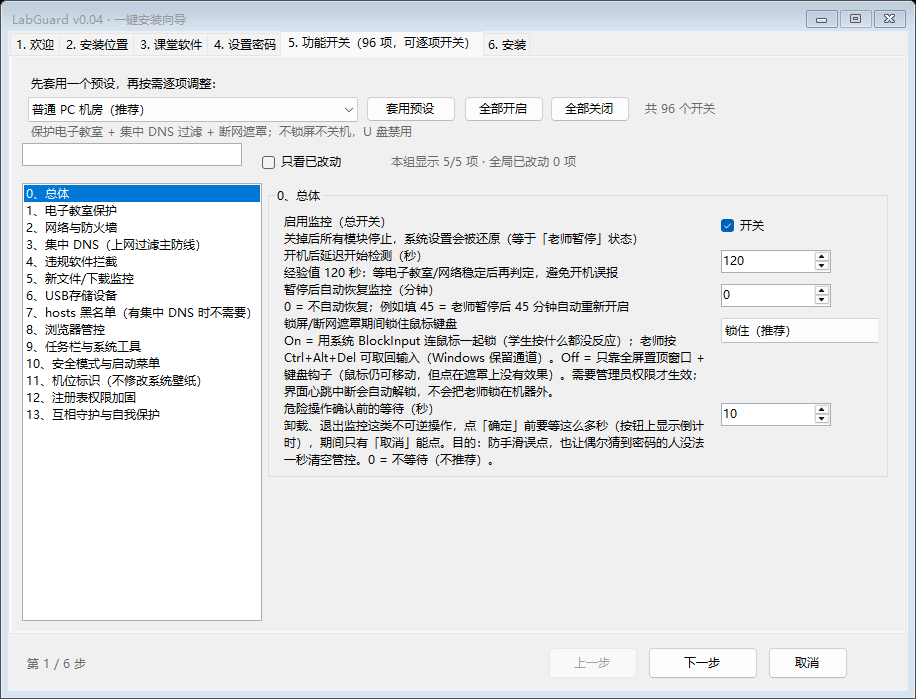
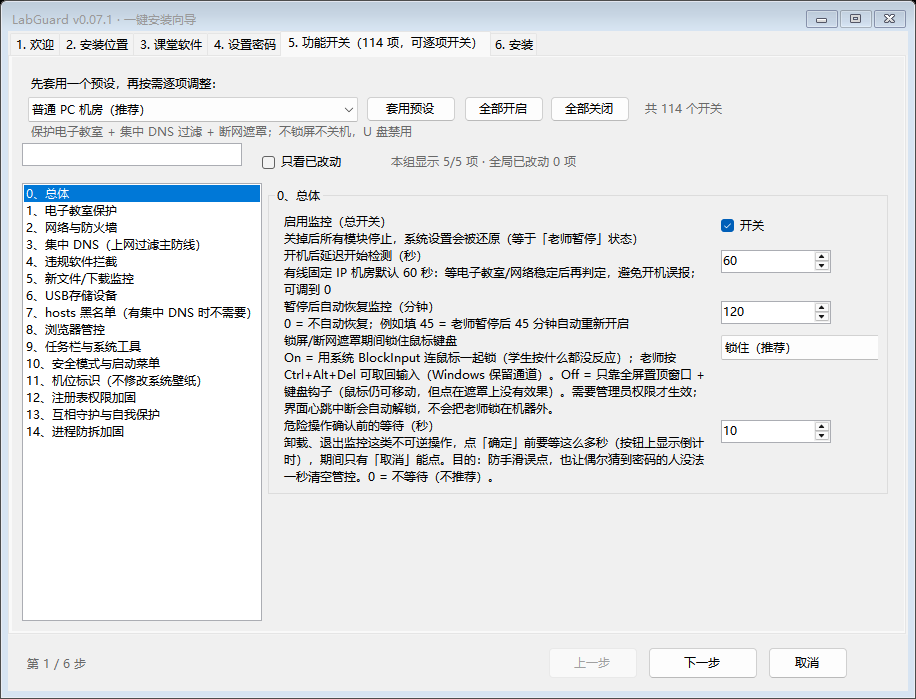
fix(standalone): v0.07.1 cold boot and download defaults

diff --git a/src/LabGuard.SelfTest/Program.cs b/src/LabGuard.SelfTest/Program.cs
@@ -45,6 +45,7 @@ namespace LabGuard.SelfTest
             TestDnsRule();
             TestSettingsCoverage();
             TestNicRoles();
+            TestStandaloneDefaults();
             TestEngineDryRun();
 
             Console.WriteLine();
@@ -732,6 +733,70 @@ namespace LabGuard.SelfTest
                 System.Linq.Enumerable.Select(LabGuard.Core.Interop.NicRoles.Usable(),
                     n => n.Name + (cfg.Network.ExcludedInterfaces.Any(p =>
                         (n.Name + " " + n.Description).IndexOf(p, StringComparison.OrdinalIgnoreCase) >= 0) ? "(忽略)" : ""))));
+        }
+
+        /// <summary>
+        /// v0.07.1 单机版默认值回归：下载默认放行、游戏默认禁用、预热 60 秒、
+        /// 以及 Notify 动作不得删除文件。
+        /// </summary>
+        private static void TestStandaloneDefaults()
+        {
+            Console.WriteLine("[8.1] 单机版 v0.07.1 默认值");
+            var cfg = new GuardConfig();
+            Check("有线固定 IP 默认预热 60 秒", cfg.StartDelaySeconds == 60, cfg.StartDelaySeconds + " 秒");
+            Check("浏览器下载默认放行", !cfg.Browser.BlockDownloads);
+            Check("浏览器另存为默认放行", !cfg.Browser.BlockSaveAs);
+            Check("IE 下载默认放行", !cfg.Browser.BlockIeDownload);
+            Check("Chrome 小恐龙仍默认禁用", cfg.Browser.BlockChromeDino);
+            Check("Edge 冲浪仍默认禁用", cfg.Browser.BlockEdgeSurf);
+            Check("新文件/下载监控默认关闭", !cfg.FileCreation.Enabled);
+            Check("Notify 动作不删除文件", !FileCreationGuard.ShouldDelete("Notify"));
+            Check("Delete 动作仍会删除文件", FileCreationGuard.ShouldDelete("Delete"));
+
+            // 干跑浏览器策略：默认只能看到游戏限制，不应写任何 DownloadRestrictions。
+            bool oldDryRun = Log.DryRun;
+            try
+            {
+                Log.DryRun = true;
+                int auditStart = SystemActions.AuditTrail.Count;
+                var browser = new BrowserPolicyGuard();
+                browser.Start(new GuardContext(cfg, AppDomain.CurrentDomain.BaseDirectory, null));
+                browser.Stop();
+                var browserAudit = SystemActions.AuditTrail.Skip(auditStart).ToList();
+                Check("默认浏览器策略不写下载限制",
+                    !browserAudit.Any(x => x.IndexOf("DownloadRestrictions", StringComparison.OrdinalIgnoreCase) >= 0));
+                Check("默认浏览器策略仍写 Chrome 小恐龙限制",
+                    browserAudit.Any(x => x.IndexOf("AllowDinosaurEasterEgg = 0", StringComparison.OrdinalIgnoreCase) >= 0));
+                Check("默认浏览器策略仍写 Edge 冲浪限制",
+                    browserAudit.Any(x => x.IndexOf("AllowSurfGame = 0", StringComparison.OrdinalIgnoreCase) >= 0));
+            }
+            finally
+            {
+                Log.DryRun = oldDryRun;
+            }
+
+            // 冷启动兜底：本机若恰好有 Down 网卡，把其它网卡全部排除，
+            // 验证仍能从离线网卡中选出判据，而不是返回空集合。
+            var all = NicRoles.Usable().ToList();
+            var down = all.FirstOrDefault(n => n.OperationalStatus != System.Net.NetworkInformation.OperationalStatus.Up &&
+                n.NetworkInterfaceType != System.Net.NetworkInformation.NetworkInterfaceType.Loopback &&
+                n.NetworkInterfaceType != System.Net.NetworkInformation.NetworkInterfaceType.Tunnel);
+            if (down == null)
+            {
+                Console.WriteLine("  [SKIP] 本机没有可用的 Down 网卡，冷启动兜底由真机部署验证");
+            }
+            else
+            {
+                var coldCfg = new GuardConfig();
+                coldCfg.Network.WatchWiredOnly = false;
+                coldCfg.Network.ExcludedInterfaces.Clear();
+                foreach (var nic in all.Where(n => n.Name != down.Name)) coldCfg.Network.ExcludedInterfaces.Add(nic.Name);
+                string reason;
+                var selected = NicRoles.SelectWatched(coldCfg, out reason);
+                Check("冷启动无在线网卡时仍选中 Down 网卡作为判据",
+                    selected.Any(n => string.Equals(n.Name, down.Name, StringComparison.OrdinalIgnoreCase)),
+                    reason);
+            }
         }
 
         private static void TestEngineDryRun()

diff --git a/src/LabGuard.Core/Guards/BrowserPolicyGuard.cs b/src/LabGuard.Core/Guards/BrowserPolicyGuard.cs
@@ -26,6 +26,8 @@ namespace LabGuard.Core.Guards
         private const string WindowsDnsClient = @"SOFTWARE\Policies\Microsoft\Windows NT\DNSClient";
         private const string IeZones = @"SOFTWARE\Microsoft\Windows\CurrentVersion\Internet Settings\Zones\3";
         private const string IeRestrict = @"SOFTWARE\Policies\Microsoft\Internet Explorer\Restrictions";
+        private bool _appliedIeDownload;
+        private bool _appliedIeSaveAs;
 
         protected override void OnStart()
         {
@@ -41,6 +43,11 @@ namespace LabGuard.Core.Guards
                 ok &= Convert.ToInt32(SystemActions.GetRegistryValue(RegistryHive.LocalMachine, Chrome, "AllowDinosaurEasterEgg") ?? 1) == 0;
             if (b.BlockDownloads)
                 ok &= Convert.ToInt32(SystemActions.GetRegistryValue(RegistryHive.LocalMachine, Chrome, "DownloadRestrictions") ?? 0) == 3;
+            if (b.BlockIeDownload)
+            {
+                ok &= Convert.ToInt32(SystemActions.GetRegistryValue(RegistryHive.LocalMachine, IeZones, "1803") ?? 0) == 3;
+                ok &= Convert.ToInt32(SystemActions.GetRegistryValue(RegistryHive.LocalMachine, IeZones, "2200") ?? 1) == 0;
+            }
             if (!ok)
             {
                 Context.Report(Name, "你违规修改了注册表的禁止下载/禁止游戏项！现在助手强制恢复！", ViolationAction.Notify);
@@ -58,13 +65,20 @@ namespace LabGuard.Core.Guards
                 Set(Edge, "DownloadRestrictions", 3);
                 Set(Firefox, "DisableDownloads", 1);
                 Set(Firefox, "BlockAboutDownloads", 1);
+            }
+            // IE 的下载限制单独可控：BlockDownloads 打开时一并覆盖 IE；
+            // BlockIeDownload 单独打开时只封 IE，不影响 Chrome/Edge。
+            if (b.BlockDownloads || b.BlockIeDownload)
+            {
                 Set(IeZones, "1803", 3);
                 Set(IeZones, "2200", 0);
+                _appliedIeDownload = true;
             }
             if (b.BlockSaveAs)
             {
                 Set(IeRestrict, "NoBrowserSaveAs", 1);
                 Set(Edge, "SaveAs", 0);
+                _appliedIeSaveAs = true;
             }
             if (b.BlockDevTools) Set(Edge, "DeveloperToolsAvailability", 2);
             if (b.BlockChromeDino) Set(Chrome, "AllowDinosaurEasterEgg", 0);
@@ -156,12 +170,19 @@ namespace LabGuard.Core.Guards
         protected override void OnStop()
         {
             if (Context == null) return;
-            foreach (string k in new[] { Chrome, Edge, Firefox, IeRestrict })
+            foreach (string k in new[] { Chrome, Edge, Firefox })
                 SystemActions.DeleteRegistryKey(RegistryHive.LocalMachine, k);
+            if (_appliedIeSaveAs)
+                SystemActions.DeleteRegistryKey(RegistryHive.LocalMachine, IeRestrict);
             SystemActions.DeleteRegistryKey(RegistryHive.LocalMachine, FirefoxDoh);
             SystemActions.DeleteRegistryValue(RegistryHive.LocalMachine, WindowsDnsClient, "DoHPolicy");
-            foreach (string v in new[] { "1803", "2200" })
-                SystemActions.DeleteRegistryValue(RegistryHive.LocalMachine, IeZones, v);
+            if (_appliedIeDownload)
+            {
+                foreach (string v in new[] { "1803", "2200" })
+                    SystemActions.DeleteRegistryValue(RegistryHive.LocalMachine, IeZones, v);
+            }
+            _appliedIeDownload = false;
+            _appliedIeSaveAs = false;
             Log.Info("已移除浏览器组策略");
         }
     }

diff --git a/src/LabGuard.Core/Config/GuardConfig.cs b/src/LabGuard.Core/Config/GuardConfig.cs
@@ -26,8 +26,8 @@ namespace LabGuard.Core.Config
         /// 取 2 小时是折中——够长（不会在一节课中途自己恢复），又能在跨节课/午休后自愈。
         /// </summary>
         public int ResumeAfterMinutes { get; set; } = 120;
-        /// <summary>程序启动后多少秒才开始检测（避免开机误判，为 120 秒）。</summary>
-        public int StartDelaySeconds { get; set; } = 120;
+        /// <summary>程序启动后多少秒才开始检测（有线固定 IP 机房默认 60 秒；可在设置里改）。</summary>
+        public int StartDelaySeconds { get; set; } = 60;
 
         public ClassroomSettings Classroom { get; set; } = new ClassroomSettings();
         public NetworkSettings Network { get; set; } = new NetworkSettings();
@@ -220,7 +220,8 @@ namespace LabGuard.Core.Config
 
     public class FileCreationSettings
     {
-        public bool Enabled { get; set; } = true;
+        /// <summary>新文件/下载监控默认关闭：浏览器下载默认全部放行，需要时再由老师手动打开。</summary>
+        public bool Enabled { get; set; } = false;
         /// <summary>AllowAll / CppOnly / DenyAll（12 组开关里的三档）。</summary>
         public string Mode { get; set; } = "CppOnly";
         public List<string> WatchPaths { get; set; } = new List<string>
@@ -269,12 +270,12 @@ namespace LabGuard.Core.Config
     public class BrowserSettings
     {
         public bool Enabled { get; set; } = true;
-        public bool BlockDownloads { get; set; } = true;
-        public bool BlockSaveAs { get; set; } = true;
+        public bool BlockDownloads { get; set; } = false;
+        public bool BlockSaveAs { get; set; } = false;
         public bool BlockDevTools { get; set; } = true;
         public bool BlockChromeDino { get; set; } = true;
         public bool BlockEdgeSurf { get; set; } = true;
-        public bool BlockIeDownload { get; set; } = true;
+        public bool BlockIeDownload { get; set; } = false;
         /// <summary>首页/导航站（留空 = 不改学生浏览器主页）。</summary>
         public string Homepage { get; set; } = "";
         /// <summary>用 LabGuard.Launcher 替换浏览器快捷方式（默认关；开启后点浏览器会先经过本程序）。</summary>

diff --git a/src/LabGuard.Core/Settings/SettingsCatalog.cs b/src/LabGuard.Core/Settings/SettingsCatalog.cs
@@ -48,7 +48,7 @@ namespace LabGuard.Core.Settings
             list.Add(Bool("0、总体", "Enabled", "启用监控（总开关）",
                 "关掉后所有模块停止，系统设置会被还原（等于「老师暂停」状态）", c => c.Enabled, (c, v) => c.Enabled = (bool)v));
             list.Add(Number("0、总体", "StartDelaySeconds", "开机后延迟开始检测（秒）",
-                "经验值 120 秒：等电子教室/网络稳定后再判定，避免开机误报", 0, 3600,
+                "有线固定 IP 机房默认 60 秒：等电子教室/网络稳定后再判定，避免开机误报；可调到 0", 0, 3600,
                 c => c.StartDelaySeconds, (c, v) => c.StartDelaySeconds = (int)v));
             list.Add(Number("0、总体", "ResumeAfterMinutes", "暂停后自动恢复监控（分钟）",
                 "0 = 不自动恢复；例如填 45 = 老师暂停后 45 分钟自动重新开启", 0, 1440,
@@ -282,9 +282,10 @@ namespace LabGuard.Core.Settings
             list.Add(Bool("8、浏览器管控", "Browser.Enabled", "启用浏览器策略（本组总开关）", null,
                 c => c.Browser.Enabled, (c, v) => c.Browser.Enabled = (bool)v));
             list.Add(Bool("8、浏览器管控", "Browser.BlockDownloads", "禁止浏览器下载文件",
-                "Chrome/Edge/Firefox/IE；学生仍可在浏览器复制图片再粘贴",
+                "默认关闭（允许所有下载，含 Edge 截图）；需要时手动打开",
                 c => c.Browser.BlockDownloads, (c, v) => c.Browser.BlockDownloads = (bool)v));
-            list.Add(Bool("8、浏览器管控", "Browser.BlockSaveAs", "禁止另存为", null,
+            list.Add(Bool("8、浏览器管控", "Browser.BlockSaveAs", "禁止另存为",
+                "默认关闭；避免影响 Edge 截图后保存",
                 c => c.Browser.BlockSaveAs, (c, v) => c.Browser.BlockSaveAs = (bool)v));
             list.Add(Bool("8、浏览器管控", "Browser.BlockDevTools", "禁止开发者工具", null,
                 c => c.Browser.BlockDevTools, (c, v) => c.Browser.BlockDevTools = (bool)v));

diff --git a/src/LabGuard.Core/Guards/FileCreationGuard.cs b/src/LabGuard.Core/Guards/FileCreationGuard.cs
@@ -78,6 +78,12 @@ namespace LabGuard.Core.Guards
         private void OnRenamed(object sender, RenamedEventArgs e) => Handle(e.FullPath);
         private void OnChanged(object sender, FileSystemEventArgs e) => Handle(e.FullPath);
 
+        /// <summary>只有显式 Delete 才删除文件；Notify/Lock 等动作必须保留文件。</summary>
+        public static bool ShouldDelete(string action)
+        {
+            return string.Equals(action, "Delete", StringComparison.OrdinalIgnoreCase);
+        }
+
         private void Handle(string fullPath)
         {
             try
@@ -110,11 +116,13 @@ namespace LabGuard.Core.Guards
                             : "本机禁止下载/安装软件；如确有需要，请老师用密码暂停管控。";
 
                 _strikes++;
-                bool delete = string.Equals(cfg.Action, "Delete", StringComparison.OrdinalIgnoreCase);
-                SystemActions.DeleteFile(fullPath);
-                Context.Report(Name, message + "  刚刚删除文件：" + fullPath,
+                bool delete = ShouldDelete(cfg.Action);
+                if (delete) SystemActions.DeleteFile(fullPath);
+                Context.Report(Name, message + (delete ? "  刚刚删除文件：" : "  仅提示，文件保留：") + fullPath,
                     _strikes >= 2 ? ViolationAction.Lock : ViolationAction.Notify, ext);
-                SetStatus("已删除违规新文件（累计 " + _strikes + " 次）");
+                SetStatus(delete
+                    ? "已删除违规新文件（累计 " + _strikes + " 次）"
+                    : "已提示违规新文件（已保留，累计 " + _strikes + " 次）");
             }
             catch (Exception ex) { Log.Debug("处理新文件事件失败：" + ex.Message); }
         }

diff --git a/src/LabGuard.Core/Interop/NicRoles.cs b/src/LabGuard.Core/Interop/NicRoles.cs
@@ -1,5 +1,6 @@
 using System;
 using System.Collections.Generic;
+using System.Linq;
 using System.Net.NetworkInformation;
 using System.Net.Sockets;
 using LabGuard.Core.Config;
@@ -168,9 +169,25 @@ namespace LabGuard.Core.Interop
                 string ip;
                 if (HasUsableIpv4(nic, out ip)) result.Add(nic);
             }
+            if (result.Count > 0)
+            {
+                reason = "自动选中 " + result.Count + " 个有 IP 的物理网卡（没有默认网关）" + fallbackNote;
+                return result;
+            }
+
+            // 冷启动/开机前拔线：网卡可能是 Down、没有网关也没有可用 IP。
+            // 此时必须把物理网卡本身留作判据，否则 watchedTotal=0，
+            // NetworkGuard 永远判定不了断网（插回网线也不会恢复监控）。
+            // 有线优先；无线只在没有有线网卡时兜底。
+            foreach (NetworkInterface nic in candidates
+                .OrderByDescending(n => IsWiredType(n.NetworkInterfaceType))
+                .ThenBy(n => n.Name, StringComparer.OrdinalIgnoreCase))
+            {
+                result.Add(nic);
+            }
             reason = result.Count > 0
-                ? "自动选中 " + result.Count + " 个有 IP 的物理网卡（没有默认网关）" + fallbackNote
-                : "没有找到可判定的联网网卡（本机可能确实没网）";
+                ? "冷启动没有在线网卡，已选中 " + result.Count + " 个物理网卡作为离线判据（插回网线后自动恢复）" + fallbackNote
+                : "没有找到可判定的物理网卡（本机可能没有网卡）";
             return result;
         }
 

diff --git a/src/LabGuard.Core/Settings/Presets.cs b/src/LabGuard.Core/Settings/Presets.cs
@@ -91,7 +91,7 @@ namespace LabGuard.Core.Settings
         private static void ApplyCommon(GuardConfig c)
         {
             c.Enabled = true;
-            c.StartDelaySeconds = 120;
+            c.StartDelaySeconds = 60;
             c.Classroom.Enabled = true;
             c.Classroom.ResumeWhenSuspended = true;
             c.Classroom.RelaunchWhenKilled = true;
@@ -123,7 +123,8 @@ namespace LabGuard.Core.Settings
             c.Network.ShutdownOnViolation = false;
             c.ProcessBlock.Enabled = true;
             c.ProcessBlock.Action = "Kill";
-            c.FileCreation.Enabled = true;
+            // 默认允许所有浏览器下载；需要“新文件/下载监控”时由老师手动打开。
+            c.FileCreation.Enabled = false;
             c.FileCreation.Mode = "CppOnly";
             c.FileCreation.Action = "Delete";
             c.Usb.Enabled = true;
@@ -131,6 +132,11 @@ namespace LabGuard.Core.Settings
             c.Hosts.Enabled = false;
             c.Hosts.ProtectFileAcl = true;
             c.Browser.Enabled = true;
+            c.Browser.BlockDownloads = false;
+            c.Browser.BlockSaveAs = false;
+            c.Browser.BlockIeDownload = false;
+            c.Browser.BlockChromeDino = true;
+            c.Browser.BlockEdgeSurf = true;
             c.Shell.Enabled = true;
             c.SafeMode.Enabled = true;
             c.Site.ShowMachineNumber = true;

diff --git a/src/LabGuard.Settings/SettingsForm.cs b/src/LabGuard.Settings/SettingsForm.cs
@@ -14,7 +14,7 @@ namespace LabGuard.Settings
 {
     /// <summary>
     /// 设置程序：主体是 <see cref="SettingsPanel"/>（左侧分组导航 + 搜索 + 只看已改动 + 改动计数，
-    /// 内容由 <see cref="LabGuard.Core.Settings.SettingsCatalog"/> 驱动，共 14 组 / 96 项）。
+    /// 内容由 <see cref="LabGuard.Core.Settings.SettingsCatalog"/> 驱动，共 15 组 / 114 项）。
     /// 底部另有口令、导出/导入/恢复默认/保存。
     /// </summary>
     public class SettingsForm : Form
@@ -75,7 +75,7 @@ namespace LabGuard.Settings
         }
 
         // ------------------------------------------------------------------ 截图（文档/人工核对用）
-        /// <summary>把 14 个分组面板逐个渲染成 PNG（不修改配置）。</summary>
+        /// <summary>把全部分组面板逐个渲染成 PNG（不修改配置）。</summary>
         public List<string> RenderScreenshots(string outDir)
         {
             var saved = new List<string>();

diff --git a/src/LabGuard.Installer/InstallerForm.cs b/src/LabGuard.Installer/InstallerForm.cs
@@ -259,7 +259,8 @@ namespace LabGuard.Installer
 
         private TabPage TabOptions()
         {
-            var page = new TabPage("5. 功能开关（96 项，可逐项开关）") { Padding = new Padding(10) };
+            var page = new TabPage("5. 功能开关（" + SettingsCatalog.All().Count + " 项，可逐项开关）")
+                { Padding = new Padding(10) };
             var top = new Panel { Dock = DockStyle.Top, Height = 76 };
             var lbl = new Label { Text = "先套用一个预设，再按需逐项调整：", Left = 6, Top = 8, Width = 330 };
             _presetBox.Left = 6; _presetBox.Top = 30;

diff --git a/src/LabGuard.Core/AppInfo.cs b/src/LabGuard.Core/AppInfo.cs
@@ -9,8 +9,8 @@ namespace LabGuard.Core
         public const string ProductNameZh = "机房管控工具";
         /// <summary>桌面/开始菜单快捷方式显示名。</summary>
         public const string ShortcutName = "LabGuard（机房管控）";
-        /// <summary>当前版本（与 git tag v0.06 对应）。</summary>
-        public const string Version = "0.07";
+        /// <summary>当前版本（单机版 v0.07.1 修复补丁）。</summary>
+        public const string Version = "0.07.1";
         public const string RepoUrl = "https://github.com/ikeee/labguard";
     }
 }

diff --git a/src/LabGuard.Core/Guards/NetworkGuard.cs b/src/LabGuard.Core/Guards/NetworkGuard.cs
@@ -93,7 +93,7 @@ namespace LabGuard.Core.Guards
 
         protected override void OnTick()
         {
-            // 经验值：开机后要给电子教室/网络足够时间，默认 120 秒内不判违规
+            // 有线固定 IP 机房默认 60 秒，给电子教室/网络留启动时间；可在设置里调整
             if ((DateTime.Now - _startedAt).TotalSeconds < Context.Config.StartDelaySeconds)
             {
                 SetStatus("预热中（" + Context.Config.StartDelaySeconds + "秒后开始检测）");

diff --git a/src/LabGuard.Settings/Program.cs b/src/LabGuard.Settings/Program.cs
@@ -25,7 +25,7 @@ namespace LabGuard.Settings
 
             Log.MinLevel = LogLevel.Info;
             GuardConfig config = ConfigStore.Load();
-            // --screenshot <目录>：把 14 个设置面板渲染成 PNG（供文档/人工核对），不修改配置
+            // --screenshot <目录>：把全部分组面板渲染成 PNG（供文档/人工核对），不修改配置
             int shotIndex = Array.IndexOf(args ?? new string[0], "--screenshot");
             if (shotIndex >= 0)
             {
